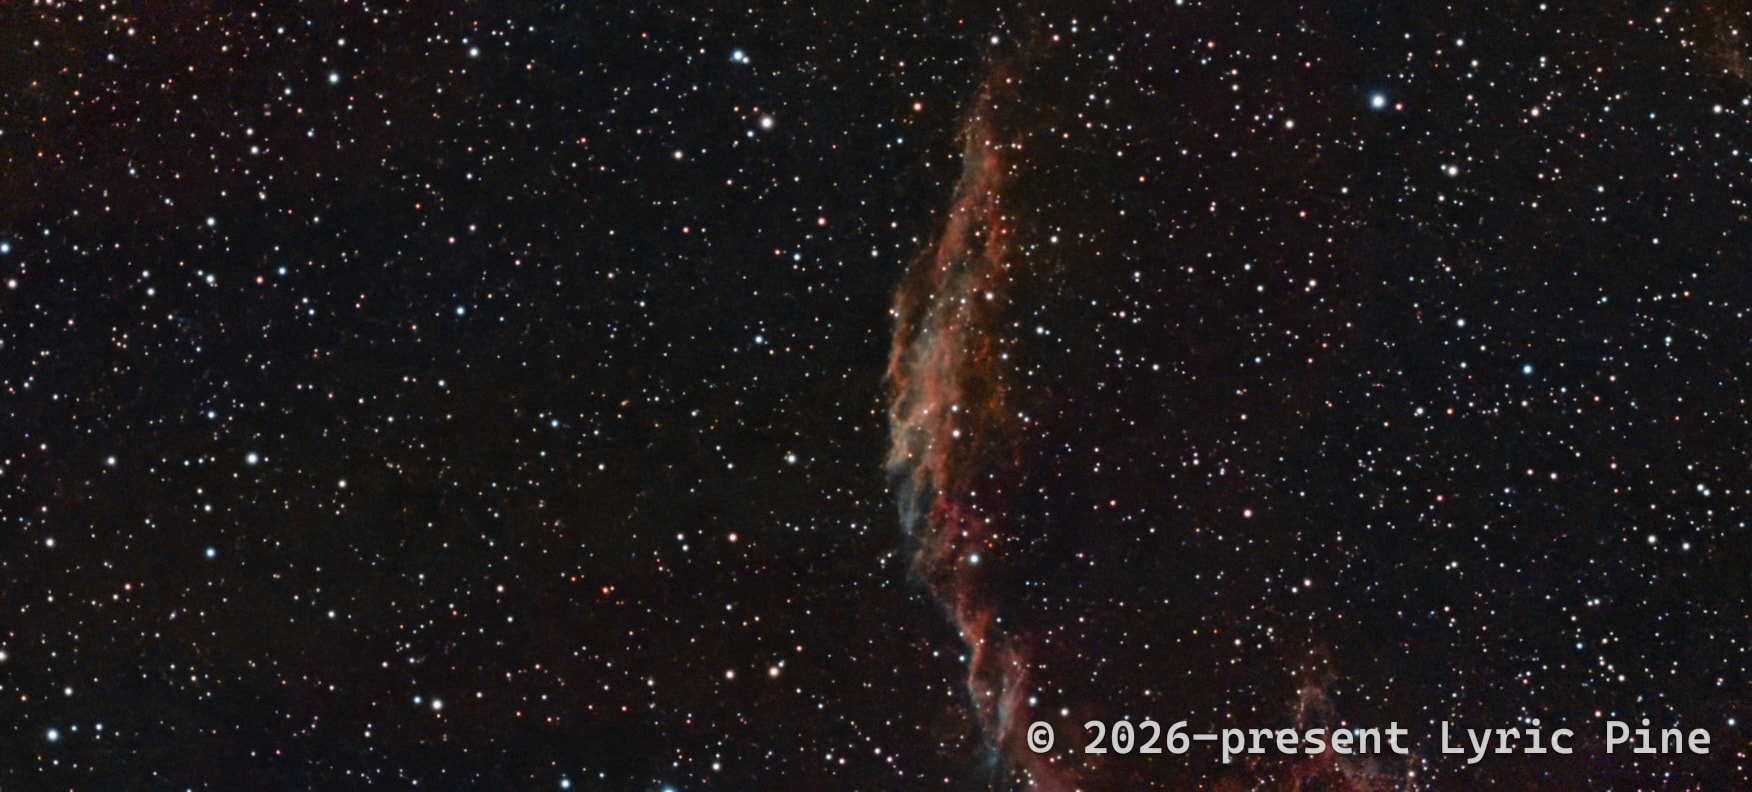
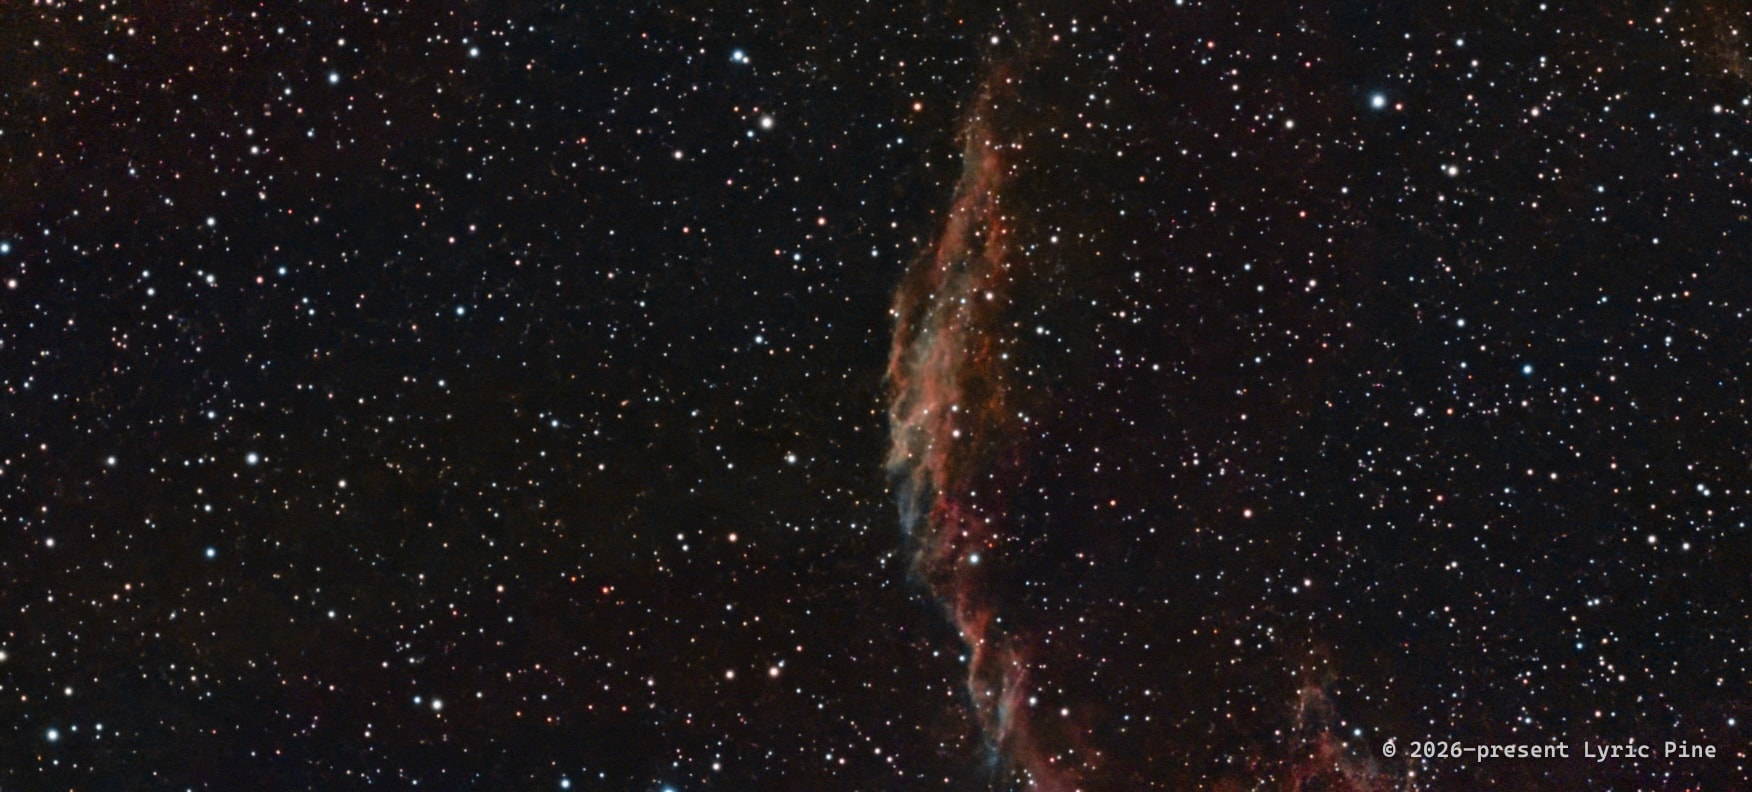
Shrink baked watermark and add touch-friendly image viewer
Halve the baked copyright watermark on the published stills so it is far
less obtrusive on tablet and desktop.

Rewrite ZoomableImage as a Pointer-Events gesture viewer: pinch-to-zoom,
drag-to-pan while zoomed, double-tap/double-click zoom at a point,
wheel-zoom on desktop, and a horizontal swipe to move between images.
Wire the Lightbox to route swipes to prev/next.

Copilot-Session: 0c58e885-29e9-4797-b66d-f9da7fe813dc

Changed region(s): [[0.5856, 0.9091, 0.9863, 0.9697]]

diff --git a/src/components/ZoomableImage.tsx b/src/components/ZoomableImage.tsx
@@ -1,4 +1,4 @@
-import { useState, type MouseEvent } from 'react'
+import { useCallback, useEffect, useRef, useState } from 'react'
 import { cn } from '@/lib/utils'
 
 type ZoomableImageProps = {
@@ -6,43 +6,261 @@ type ZoomableImageProps = {
   alt: string
   className?: string
   imgClassName?: string
+  /** Called on a horizontal swipe-right while the image is not zoomed. */
+  onSwipePrev?: () => void
+  /** Called on a horizontal swipe-left while the image is not zoomed. */
+  onSwipeNext?: () => void
 }
 
-export function ZoomableImage({ src, alt, className, imgClassName }: ZoomableImageProps) {
-  const [zoomed, setZoomed] = useState(false)
-  const [origin, setOrigin] = useState('50% 50%')
+const MAX_SCALE = 4
+const DOUBLE_TAP_SCALE = 2.5
+const DOUBLE_TAP_MS = 280
+const TAP_MOVE_TOLERANCE = 10
 
-  function handleMove(event: MouseEvent<HTMLDivElement>) {
-    if (!zoomed) return
-    const rect = event.currentTarget.getBoundingClientRect()
-    const x = ((event.clientX - rect.left) / rect.width) * 100
-    const y = ((event.clientY - rect.top) / rect.height) * 100
-    setOrigin(`${x}% ${y}%`)
+type GestureMode = 'none' | 'pan' | 'pinch' | 'swipe'
+
+/**
+ * Touch-first image viewer. Supports pinch-to-zoom, drag-to-pan while zoomed,
+ * double-tap (or double-click) to toggle zoom at a point, wheel-to-zoom on
+ * desktop, and a horizontal swipe to move to the previous/next image while at
+ * rest. All input is handled through Pointer Events, so mouse, touch, and pen
+ * share one code path. The transform is written imperatively to avoid a React
+ * re-render on every move.
+ */
+export function ZoomableImage({
+  src,
+  alt,
+  className,
+  imgClassName,
+  onSwipePrev,
+  onSwipeNext,
+}: ZoomableImageProps) {
+  const containerRef = useRef<HTMLDivElement>(null)
+  const imgRef = useRef<HTMLImageElement>(null)
+
+  const view = useRef({ scale: 1, tx: 0, ty: 0 })
+  const pointers = useRef(new Map<number, { x: number; y: number }>())
+  const start = useRef({
+    x: 0,
+    y: 0,
+    tx: 0,
+    ty: 0,
+    scale: 1,
+    dist: 0,
+    midX: 0,
+    midY: 0,
+    swipeDx: 0,
+    moved: false,
+    mode: 'none' as GestureMode,
+  })
+  const lastTap = useRef(0)
+  const [zoomed, setZoomed] = useState(false)
+
+  const size = () => {
+    const el = containerRef.current
+    return { w: el?.clientWidth ?? 0, h: el?.clientHeight ?? 0 }
   }
+
+  const rel = (clientX: number, clientY: number) => {
+    const rect = containerRef.current!.getBoundingClientRect()
+    return { x: clientX - rect.left, y: clientY - rect.top }
+  }
+
+  const applyTransform = useCallback((transition: boolean) => {
+    const img = imgRef.current
+    if (!img) return
+    const { scale, tx, ty } = view.current
+    img.style.transition = transition ? 'transform 220ms cubic-bezier(0.22, 1, 0.36, 1)' : 'none'
+    img.style.transform = `translate3d(${tx}px, ${ty}px, 0) scale(${scale})`
+  }, [])
+
+  const setView = useCallback(
+    (scale: number, tx: number, ty: number, transition = false) => {
+      const { w, h } = size()
+      const clampedScale = Math.min(MAX_SCALE, Math.max(1, scale))
+      const minX = w * (1 - clampedScale)
+      const minY = h * (1 - clampedScale)
+      view.current = {
+        scale: clampedScale,
+        tx: Math.min(0, Math.max(minX, tx)),
+        ty: Math.min(0, Math.max(minY, ty)),
+      }
+      applyTransform(transition)
+      const nowZoomed = clampedScale > 1.01
+      setZoomed((current) => (current === nowZoomed ? current : nowZoomed))
+    },
+    [applyTransform],
+  )
+
+  // Reset when the underlying image changes (callers also remount via key, but
+  // this keeps state honest if they don't).
+  useEffect(() => {
+    view.current = { scale: 1, tx: 0, ty: 0 }
+    applyTransform(false)
+    setZoomed(false)
+  }, [src, applyTransform])
+
+  const midpoint = () => {
+    const pts = [...pointers.current.values()]
+    return {
+      x: pts.reduce((sum, p) => sum + p.x, 0) / pts.length,
+      y: pts.reduce((sum, p) => sum + p.y, 0) / pts.length,
+    }
+  }
+
+  const distance = () => {
+    const [a, b] = [...pointers.current.values()]
+    return Math.hypot(a.x - b.x, a.y - b.y)
+  }
+
+  const beginSinglePointer = (x: number, y: number) => {
+    start.current.mode = view.current.scale > 1.01 ? 'pan' : 'swipe'
+    start.current.x = x
+    start.current.y = y
+    start.current.tx = view.current.tx
+    start.current.ty = view.current.ty
+    start.current.scale = view.current.scale
+    start.current.swipeDx = 0
+    start.current.moved = false
+  }
+
+  const handleTap = (clientX: number, clientY: number) => {
+    const now = Date.now()
+    if (now - lastTap.current < DOUBLE_TAP_MS) {
+      lastTap.current = 0
+      if (view.current.scale > 1.01) {
+        setView(1, 0, 0, true)
+      } else {
+        const p = rel(clientX, clientY)
+        setView(DOUBLE_TAP_SCALE, p.x * (1 - DOUBLE_TAP_SCALE), p.y * (1 - DOUBLE_TAP_SCALE), true)
+      }
+    } else {
+      lastTap.current = now
+    }
+  }
+
+  const onPointerDown = (event: React.PointerEvent<HTMLDivElement>) => {
+    try {
+      containerRef.current?.setPointerCapture(event.pointerId)
+    } catch {
+      // Ignore: the pointer may already be released on some platforms.
+    }
+    const p = rel(event.clientX, event.clientY)
+    pointers.current.set(event.pointerId, p)
+
+    if (pointers.current.size === 1) {
+      beginSinglePointer(p.x, p.y)
+    } else if (pointers.current.size === 2) {
+      start.current.mode = 'pinch'
+      start.current.dist = distance()
+      start.current.scale = view.current.scale
+      start.current.tx = view.current.tx
+      start.current.ty = view.current.ty
+      const m = midpoint()
+      start.current.midX = m.x
+      start.current.midY = m.y
+    }
+  }
+
+  const onPointerMove = (event: React.PointerEvent<HTMLDivElement>) => {
+    if (!pointers.current.has(event.pointerId)) return
+    pointers.current.set(event.pointerId, rel(event.clientX, event.clientY))
+
+    const s = start.current
+    if (pointers.current.size >= 2 && s.mode === 'pinch') {
+      const scale = Math.min(MAX_SCALE, Math.max(1, s.scale * (distance() / s.dist)))
+      const k = scale / s.scale
+      const m = midpoint()
+      setView(scale, m.x - (s.midX - s.tx) * k, m.y - (s.midY - s.ty) * k)
+      return
+    }
+
+    const p = pointers.current.get(event.pointerId)!
+    const dx = p.x - s.x
+    const dy = p.y - s.y
+    if (Math.abs(dx) + Math.abs(dy) > TAP_MOVE_TOLERANCE) s.moved = true
+
+    if (s.mode === 'pan') {
+      setView(view.current.scale, s.tx + dx, s.ty + dy)
+    } else if (s.mode === 'swipe' && Math.abs(dx) > Math.abs(dy)) {
+      s.swipeDx = dx
+      const img = imgRef.current
+      if (img) {
+        img.style.transition = 'none'
+        img.style.transform = `translate3d(${dx}px, 0, 0) scale(1)`
+      }
+    }
+  }
+
+  const endPointer = (event: React.PointerEvent<HTMLDivElement>) => {
+    if (!pointers.current.has(event.pointerId)) return
+    pointers.current.delete(event.pointerId)
+    const s = start.current
+
+    if (pointers.current.size === 0) {
+      if (s.mode === 'swipe') {
+        const threshold = Math.max(60, size().w * 0.18)
+        if (s.swipeDx <= -threshold && onSwipeNext) {
+          onSwipeNext()
+          return
+        }
+        if (s.swipeDx >= threshold && onSwipePrev) {
+          onSwipePrev()
+          return
+        }
+        applyTransform(true) // snap back to rest
+      }
+      if (!s.moved) handleTap(event.clientX, event.clientY)
+      s.mode = 'none'
+    } else if (pointers.current.size === 1) {
+      // Dropped from a pinch to a single finger: continue as a pan/swipe.
+      const [remaining] = [...pointers.current.values()]
+      beginSinglePointer(remaining.x, remaining.y)
+    }
+  }
+
+  // Wheel-to-zoom on desktop needs a non-passive listener to preventDefault.
+  useEffect(() => {
+    const el = containerRef.current
+    if (!el) return
+
+    const onWheel = (event: WheelEvent) => {
+      event.preventDefault()
+      const p = rel(event.clientX, event.clientY)
+      const factor = event.deltaY < 0 ? 1.15 : 1 / 1.15
+      const scale = Math.min(MAX_SCALE, Math.max(1, view.current.scale * factor))
+      const k = scale / view.current.scale
+      setView(scale, p.x - (p.x - view.current.tx) * k, p.y - (p.y - view.current.ty) * k)
+    }
+
+    el.addEventListener('wheel', onWheel, { passive: false })
+    return () => el.removeEventListener('wheel', onWheel)
+  }, [setView])
 
   return (
     <div
-      className={cn('relative inline-flex overflow-hidden rounded-xl', className)}
-      onMouseMove={handleMove}
-      onMouseLeave={() => setOrigin('50% 50%')}
-      onDoubleClick={() => setZoomed(false)}
+      ref={containerRef}
+      className={cn(
+        'relative inline-flex touch-none overflow-hidden rounded-xl select-none',
+        zoomed ? 'cursor-grab active:cursor-grabbing' : 'cursor-zoom-in',
+        className,
+      )}
+      onPointerDown={onPointerDown}
+      onPointerMove={onPointerMove}
+      onPointerUp={endPointer}
+      onPointerCancel={endPointer}
       onContextMenu={(event) => event.preventDefault()}
     >
       <img
+        ref={imgRef}
         src={src}
         alt={alt}
         draggable={false}
         onDragStart={(event) => event.preventDefault()}
-        onContextMenu={(event) => event.preventDefault()}
-        onClick={(event) => {
-          event.stopPropagation()
-          setZoomed((value) => !value)
-        }}
-        style={{ transformOrigin: origin }}
+        style={{ transformOrigin: '0 0', willChange: 'transform' }}
         className={cn(
-          'max-h-[78vh] max-w-[92vw] object-contain transition-transform duration-300 ease-out',
-          'pointer-events-auto select-none [-webkit-touch-callout:none] [-webkit-user-drag:none]',
-          zoomed ? 'scale-[2.6] cursor-zoom-out' : 'cursor-zoom-in',
+          'max-h-[82vh] max-w-[94vw] object-contain',
+          'pointer-events-none select-none [-webkit-touch-callout:none] [-webkit-user-drag:none]',
           imgClassName,
         )}
       />

diff --git a/src/components/Lightbox.tsx b/src/components/Lightbox.tsx
@@ -179,7 +179,13 @@ export function Lightbox({
               <source src={item.video} type="video/mp4" />
             </video>
           ) : (
-            <ZoomableImage key={item.image} src={item.image} alt={item.alt ?? item.title} />
+            <ZoomableImage
+              key={item.image}
+              src={item.image}
+              alt={item.alt ?? item.title}
+              onSwipePrev={onPrev}
+              onSwipeNext={onNext}
+            />
           )}
           {isVideo && (
             <span className="pointer-events-none absolute right-3 bottom-2 z-10 font-medium tracking-wide text-[10px] text-white/40 select-none drop-shadow-[0_1px_2px_rgba(0,0,0,0.85)]">
